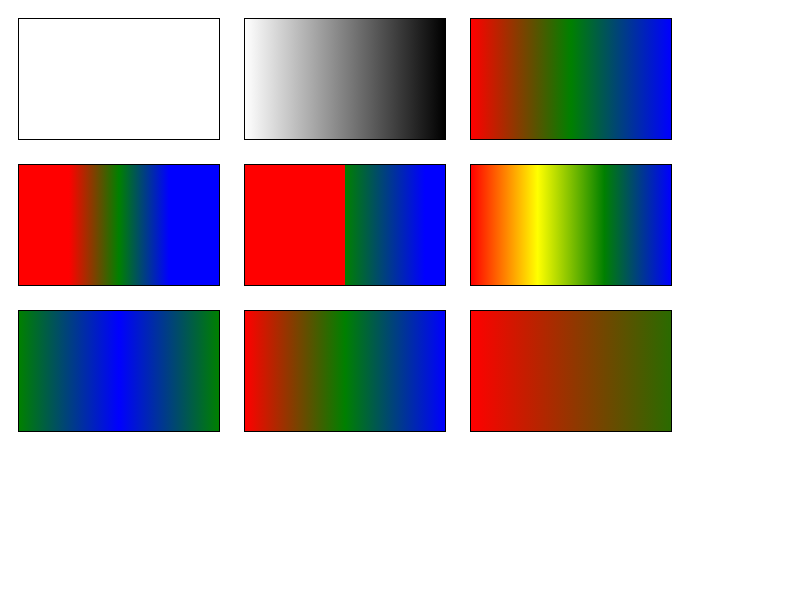
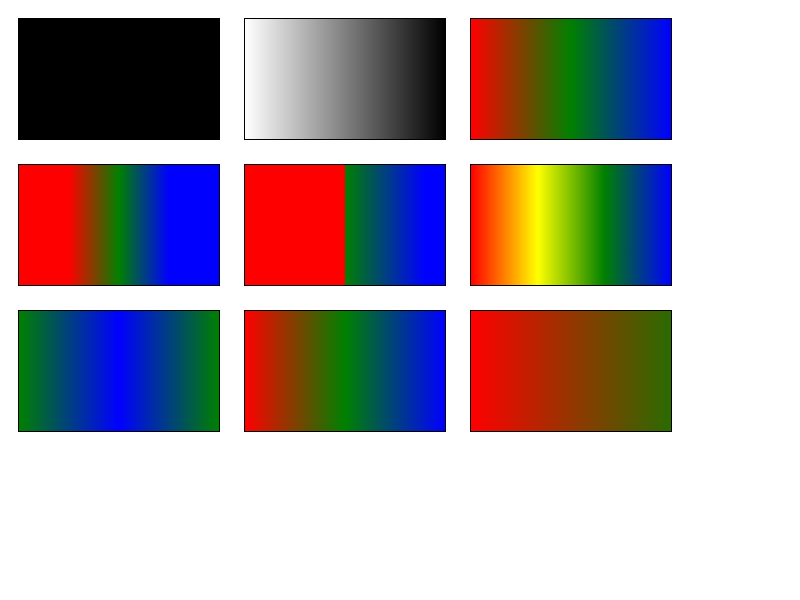
Allow gradient to have one single stop
Allow gradients with a single color stop and 0-1 positions as per
css-images-4 says.
Affected gradients are:
  - linear-gradient
  - -webkit-linear-gradient
  - repeating-linear-gradient
  - -webkit-repeating-linear-gradient
  - radial-gradient
  - -webkit-radial-gradient
  - repeating-radial-gradient
  - -webkit-repeating-radial-gradient
  - conic-gradient
  - repeating-conic-gradient

Bug: 344620213
Ref: https://drafts.csswg.org/css-images-3/#color-stop-syntax
Ref: https://github.com/w3c/csswg-drafts/issues/10092
Ref: https://bugzilla.mozilla.org/show_bug.cgi?id=1900530
Commit-Queue: Rune Lillesveen <futhark@chromium.org>
Cr-Commit-Position: refs/heads/main@{#1417190}

Changed region(s): [[0.0, 0.03, 0.2812, 0.24]]

diff --git a/web_tests/fast/gradients/css3-gradient-parsing.html b/web_tests/fast/gradients/css3-gradient-parsing.html
@@ -22,7 +22,7 @@ function testGradient(css, queryProp)
 }
 
 test(() => {
-  assert_equals(testGradient("background-image: linear-gradient(black 0%", "background-image"), 'none');
+  assert_equals(testGradient("background-image: linear-gradient(black 0%", "background-image"), 'linear-gradient(rgb(0, 0, 0) 0%)');
   assert_equals(testGradient("background-image: linear-gradient(top)", "background-image"), 'none');
   assert_equals(testGradient("background-image: linear-gradient(10deg)", "background-image"), 'none');
   assert_equals(testGradient("background-image: linear-gradient(top center, black 0%)", "background-image"), 'none');
@@ -30,7 +30,7 @@ test(() => {
   assert_equals(testGradient("background-image: linear-gradient(left left)", "background-image"), 'none');
   assert_equals(testGradient("background-image: linear-gradient(left center)", "background-image"), 'none');
   assert_equals(testGradient("background-image: linear-gradient(left 10deg, black 0%)", "background-image"), 'none');
-  assert_equals(testGradient("background-image: linear-gradient(black)", "background-image"), 'none');
+  assert_equals(testGradient("background-image: linear-gradient(black)", "background-image"), 'linear-gradient(rgb(0, 0, 0))');
   assert_equals(testGradient("background-image: linear-gradient(right bottom, black, white)", "background-image"), 'none');
   assert_equals(testGradient("background-image: linear-gradient(black, white)", "background-image"), 'linear-gradient(rgb(0, 0, 0), rgb(255, 255, 255))');
   assert_equals(testGradient("background-image: linear-gradient(black 0, white)", "background-image"), 'linear-gradient(rgb(0, 0, 0) 0px, rgb(255, 255, 255))');

diff --git a/web_tests/fast/gradients/unprefixed-gradient-parsing.html b/web_tests/fast/gradients/unprefixed-gradient-parsing.html
@@ -22,7 +22,7 @@ function testGradient(css)
 }
 
 test(() => {
-  assert_equals(testGradient("background-image: linear-gradient(black 0%)"), 'none');
+  assert_equals(testGradient("background-image: linear-gradient(black 0%)"), 'linear-gradient(rgb(0, 0, 0) 0%)');
   assert_equals(testGradient("background-image: linear-gradient(top)"), 'none');
   assert_equals(testGradient("background-image: linear-gradient(to top)"), 'none');
   assert_equals(testGradient("background-image: linear-gradient(10deg)"), 'none');
@@ -34,7 +34,7 @@ test(() => {
   assert_equals(testGradient("background-image: linear-gradient(to left left)"), 'none');
   assert_equals(testGradient("background-image: linear-gradient(to left center)"), 'none');
   assert_equals(testGradient("background-image: linear-gradient(to left 10deg, black 0%, white)"), 'none');
-  assert_equals(testGradient("background-image: linear-gradient(black)"), 'none');
+  assert_equals(testGradient("background-image: linear-gradient(black)"), 'linear-gradient(rgb(0, 0, 0))');
 
   assert_equals(testGradient("background-image: linear-gradient(10deg, black 0%, 25%, 50%, white)"), 'none');
   assert_equals(testGradient("background-image: linear-gradient(10deg, black 0%, 50%)"), 'none');

diff --git a/web_tests/fast/gradients/conic-gradient-parsing.html b/web_tests/fast/gradients/conic-gradient-parsing.html
@@ -24,8 +24,8 @@
   }
 
   const tests = [
-    { style: "conic-gradient(black)"                                       , computed: "none" },
-    { style: "conic-gradient(black 0%)"                                    , computed: "none" },
+    { style: "conic-gradient(black)"                                       , computed: "conic-gradient(rgb(0, 0, 0))" },
+    { style: "conic-gradient(black 0%)"                                    , computed: "conic-gradient(rgb(0, 0, 0) 0%)" },
     { style: "conic-gradient(black 0%, 25%)"                               , computed: "none" },
     { style: "conic-gradient(black 0px, white)"                            , computed: "none" },
     { style: "conic-gradient(black, , white)"                              , computed: "none" },

diff --git a/renderer/core/css/css_gradient_value.cc b/renderer/core/css/css_gradient_value.cc
@@ -237,7 +237,7 @@ struct CSSGradientValue::GradientDesc {
 
 static void ReplaceColorHintsWithColorStops(
     Vector<GradientStop>& stops,
-    const HeapVector<CSSGradientColorStop, 2>& css_gradient_stops,
+    const HeapVector<CSSGradientColorStop, 1>& css_gradient_stops,
     Color::ColorSpace color_interpolation_space,
     Color::HueInterpolationMethod hue_interpolation_method) {
   // This algorithm will replace each color interpolation hint with 9 regular
@@ -438,7 +438,7 @@ static const CSSValue* GetComputedStopColor(const CSSValue& color,
 void CSSGradientValue::AddComputedStops(
     const ComputedStyle& style,
     bool allow_visited_style,
-    const HeapVector<CSSGradientColorStop, 2>& stops,
+    const HeapVector<CSSGradientColorStop, 1>& stops,
     CSSValuePhase value_phase) {
   for (CSSGradientColorStop stop : stops) {
     if (!stop.IsHint()) {
@@ -454,7 +454,7 @@ namespace {
 bool RequiresStopsNormalization(const Vector<GradientStop>& stops,
                                 CSSGradientValue::GradientDesc& desc) {
   // We need at least two stops to normalize
-  if (stops.size() < 2) {
+  if (stops.empty()) {
     return false;
   }
 
@@ -476,7 +476,7 @@ bool RequiresStopsNormalization(const Vector<GradientStop>& stops,
 // gradient.
 bool NormalizeAndAddStops(const Vector<GradientStop>& stops,
                           CSSGradientValue::GradientDesc& desc) {
-  DCHECK_GT(stops.size(), 1u);
+  DCHECK_GE(stops.size(), 1u);
 
   const float first_offset = stops.front().offset;
   const float last_offset = stops.back().offset;

diff --git a/renderer/core/css/css_gradient_value.h b/renderer/core/css/css_gradient_value.h
@@ -153,7 +153,7 @@ class CSSGradientValue : public CSSImageGeneratorValue {
                           const CSSToLengthConversionData&) const;
   void AddComputedStops(const ComputedStyle&,
                         bool allow_visited_style,
-                        const HeapVector<CSSGradientColorStop, 2>& stops,
+                        const HeapVector<CSSGradientColorStop, 1>& stops,
                         CSSValuePhase value_phase);
 
   void AppendCSSTextForColorStops(StringBuilder&,
@@ -163,7 +163,7 @@ class CSSGradientValue : public CSSImageGeneratorValue {
   bool Equals(const CSSGradientValue&) const;
 
   // Stops
-  HeapVector<CSSGradientColorStop, 2> stops_;
+  HeapVector<CSSGradientColorStop, 1> stops_;
   CSSGradientType gradient_type_;
   bool repeating_ : 1;
   bool is_cacheable_ : 1;

diff --git a/renderer/core/css/parser/css_property_parser_test.cc b/renderer/core/css/parser/css_property_parser_test.cc
@@ -881,7 +881,8 @@ TEST(CSSPropertyParserTest, ImageSetNegativeResolution) {
 }
 
 TEST(CSSPropertyParserTest, ImageSetOnlyOneGradientColor) {
-  TestImageSetParsingFailure("image-set(linear-gradient(red) 1x)");
+  TestImageSetParsing("image-set(linear-gradient(red) 1x)",
+                      "image-set(linear-gradient(red) 1x)");
 }
 
 TEST(CSSPropertyParserTest, ImageSetAddCalcMissingUnit1) {

diff --git a/renderer/core/css/properties/css_parsing_utils.cc b/renderer/core/css/properties/css_parsing_utils.cc
@@ -2713,8 +2713,8 @@ static bool ConsumeGradientColorStops(CSSParserTokenStream& stream,
     return false;
   }
 
-  // Must have 2 or more stops to be valid.
-  return gradient->StopCount() >= 2;
+  // Must have 1 or more stops to be valid.
+  return gradient->StopCount() >= 1;
 }
 
 static CSSValue* ConsumeDeprecatedRadialGradient(

diff --git a/renderer/platform/graphics/gradient.cc b/renderer/platform/graphics/gradient.cc
@@ -282,7 +282,7 @@ sk_sp<PaintShader> Gradient::CreateShaderInternal(
   pos.reserve(stops_.size());
 
   FillSkiaStops(colors, pos);
-  DCHECK_GE(colors.size(), 2ul);
+  DCHECK_GE(colors.size(), 1ul);
   DCHECK_EQ(pos.size(), colors.size());
 
   SkTileMode tile = SkTileMode::kClamp;
